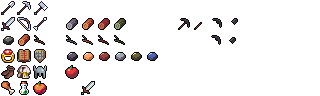
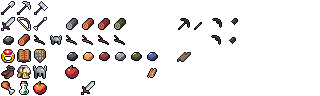
new itemSheet

Changed region(s): [[0.5312, 0.5312, 0.5938, 0.6562], [0.4375, 0.6875, 0.5, 0.8125], [0.1562, 0.375, 0.2188, 0.4688]]

diff --git a/Game/Item.cpp b/Game/Item.cpp
@@ -18,21 +18,104 @@ std::array<ItemPropertyTemplate*,(int)ItemProperty::MAX> Item::itemPropertyTempl
 void Item::setTemplates() {
     
     //ITEMS
-    itemTemplates[(int)ItemID::BRANCH] = new ItemTemplate("Oak Branch", {ItemType::ROD, ItemType::FUEL});
-    itemTemplates[(int)ItemID::BRANCH] -> properties[(int)ItemProperty::FLEXIBILITY] = 1;
-    itemTemplates[(int)ItemID::BRANCH] -> properties[(int)ItemProperty::STENGTH] = 7;
-    itemTemplates[(int)ItemID::BRANCH] -> properties[(int)ItemProperty::BURN_TIME] = 2;
-    itemTemplates[(int)ItemID::BRANCH] -> properties[(int)ItemProperty::HEAT] = 3;
     
-    itemTemplates[(int)ItemID::WOOD] = new ItemTemplate("Oak Log", {ItemType::LOG, ItemType::FUEL});
-    itemTemplates[(int)ItemID::WOOD] -> properties[(int)ItemProperty::BURN_TIME] = 2;
-    itemTemplates[(int)ItemID::WOOD] -> properties[(int)ItemProperty::HEAT] = 3;
-    itemTemplates[(int)ItemID::WOOD] -> properties[(int)ItemProperty::HARDNESS] = 6;
+    //logs
     
-    itemTemplates[(int)ItemID::STONE] = new ItemTemplate("Granite", {ItemType::STONE});
-    itemTemplates[(int)ItemID::STONE] -> properties[(int)ItemProperty::HARDNESS] = 6;
+    itemTemplates[(int)ItemID::PINE_LOG] = new ItemTemplate("Pine Log", {ItemType::LOG, ItemType::FUEL});
+    itemTemplates[(int)ItemID::PINE_LOG] -> properties[(int)ItemProperty::HARDNESS] = 3;
+    itemTemplates[(int)ItemID::PINE_LOG] -> properties[(int)ItemProperty::BURN_TIME] = 5;
+    itemTemplates[(int)ItemID::PINE_LOG] -> properties[(int)ItemProperty::HEAT] = 4;
+    
+    itemTemplates[(int)ItemID::OAK_LOG] = new ItemTemplate("Oak Log", {ItemType::LOG, ItemType::FUEL});
+    itemTemplates[(int)ItemID::OAK_LOG] -> properties[(int)ItemProperty::HARDNESS] = 6;
+    itemTemplates[(int)ItemID::OAK_LOG] -> properties[(int)ItemProperty::BURN_TIME] = 8;
+    itemTemplates[(int)ItemID::OAK_LOG] -> properties[(int)ItemProperty::HEAT] = 5;
+    
+    itemTemplates[(int)ItemID::ROSEWOOD_LOG] = new ItemTemplate("Rosewood Log", {ItemType::LOG, ItemType::FUEL});
+    itemTemplates[(int)ItemID::ROSEWOOD_LOG] -> properties[(int)ItemProperty::HARDNESS] = 9;
+    itemTemplates[(int)ItemID::ROSEWOOD_LOG] -> properties[(int)ItemProperty::BURN_TIME] = 8;
+    itemTemplates[(int)ItemID::ROSEWOOD_LOG] -> properties[(int)ItemProperty::HEAT] = 6;
+    
+    itemTemplates[(int)ItemID::ASHWOOD_LOG] = new ItemTemplate("Ashwood Log", {ItemType::LOG, ItemType::FUEL});
+    itemTemplates[(int)ItemID::ASHWOOD_LOG] -> properties[(int)ItemProperty::HARDNESS] = 7;
+    itemTemplates[(int)ItemID::ASHWOOD_LOG] -> properties[(int)ItemProperty::BURN_TIME] = 5;
+    itemTemplates[(int)ItemID::ASHWOOD_LOG] -> properties[(int)ItemProperty::HEAT] = 9;
+    
+    itemTemplates[(int)ItemID::SPRUCE_LOG] = new ItemTemplate("Spruce Log", {ItemType::LOG, ItemType::FUEL});
+    itemTemplates[(int)ItemID::SPRUCE_LOG] -> properties[(int)ItemProperty::HARDNESS] = 7;
+    itemTemplates[(int)ItemID::SPRUCE_LOG] -> properties[(int)ItemProperty::BURN_TIME] = 6;
+    itemTemplates[(int)ItemID::SPRUCE_LOG] -> properties[(int)ItemProperty::HEAT] = 5;
+    
+    //planks
+    
+    itemTemplates[(int)ItemID::PINE_PLANK] = new ItemTemplate("Pine Plank", {ItemType::PLATE});
+    
+    itemTemplates[(int)ItemID::OAK_PLANK] = new ItemTemplate("Oak Plank", {ItemType::PLATE});
+    
+    itemTemplates[(int)ItemID::ROSEWOOD_PLANK] = new ItemTemplate("Rosewood Plank", {ItemType::PLATE});
+    
+    itemTemplates[(int)ItemID::ASHWOOD_PLANK] = new ItemTemplate("Ashwood Plank", {ItemType::PLATE});
+    
+    itemTemplates[(int)ItemID::SPRUCE_PLANK] = new ItemTemplate("Spruce Plank", {ItemType::PLATE});
+
+    //sticks
+    
+    itemTemplates[(int)ItemID::PINE_STICK] = new ItemTemplate("Pine Stick", {ItemType::ROD});
+    itemTemplates[(int)ItemID::PINE_STICK] -> properties[(int)ItemProperty::FLEXIBILITY] = 8;
+    itemTemplates[(int)ItemID::PINE_STICK] -> properties[(int)ItemProperty::STENGTH] = 4;
+    
+    itemTemplates[(int)ItemID::OAK_STICK] = new ItemTemplate("Oak Stick", {ItemType::ROD});
+    itemTemplates[(int)ItemID::OAK_STICK] -> properties[(int)ItemProperty::FLEXIBILITY] = 5;
+    itemTemplates[(int)ItemID::OAK_STICK] -> properties[(int)ItemProperty::STENGTH] = 6;
+    
+    itemTemplates[(int)ItemID::ROSEWOOD_STICK] = new ItemTemplate("Rosewood Stick", {ItemType::ROD});
+    itemTemplates[(int)ItemID::ROSEWOOD_STICK] -> properties[(int)ItemProperty::FLEXIBILITY] = 2;
+    itemTemplates[(int)ItemID::ROSEWOOD_STICK] -> properties[(int)ItemProperty::STENGTH] = 9;
+    
+    itemTemplates[(int)ItemID::ASHWOOD_STICK] = new ItemTemplate("Ashwood Stick", {ItemType::ROD});
+    itemTemplates[(int)ItemID::ASHWOOD_STICK] -> properties[(int)ItemProperty::FLEXIBILITY] = 4;
+    itemTemplates[(int)ItemID::ASHWOOD_STICK] -> properties[(int)ItemProperty::STENGTH] = 7;
+    
+    itemTemplates[(int)ItemID::SPRUCE_STICK] = new ItemTemplate("Spruce Stick", {ItemType::ROD});
+    itemTemplates[(int)ItemID::SPRUCE_STICK] -> properties[(int)ItemProperty::FLEXIBILITY] = 5;
+    itemTemplates[(int)ItemID::SPRUCE_STICK] -> properties[(int)ItemProperty::STENGTH] = 7;
+    
+    //cobbles
+    
+    itemTemplates[(int)ItemID::GRANITE_COBBLE] = new ItemTemplate("Granite Cobble", {ItemType::COBBLE});
+    itemTemplates[(int)ItemID::GRANITE_COBBLE] -> properties[(int)ItemProperty::HARDNESS] = 7;
+    
+    itemTemplates[(int)ItemID::BASALT_COBBLE] = new ItemTemplate("Basalt Cobble", {ItemType::COBBLE});
+    itemTemplates[(int)ItemID::BASALT_COBBLE] -> properties[(int)ItemProperty::HARDNESS] = 9;
+    
+    itemTemplates[(int)ItemID::LIMESTONE_COBBLE] = new ItemTemplate("Limestone Cobble", {ItemType::COBBLE});
+    itemTemplates[(int)ItemID::LIMESTONE_COBBLE] -> properties[(int)ItemProperty::HARDNESS] = 6;
+    
+    itemTemplates[(int)ItemID::SANDSTONE_COBBLE] = new ItemTemplate("Sandstone Cobble", {ItemType::COBBLE});
+    itemTemplates[(int)ItemID::SANDSTONE_COBBLE] -> properties[(int)ItemProperty::HARDNESS] = 4;
+    
+    itemTemplates[(int)ItemID::CHALK_COBBLE] = new ItemTemplate("Chalk Cobble", {ItemType::COBBLE});
+    itemTemplates[(int)ItemID::CHALK_COBBLE] -> properties[(int)ItemProperty::HARDNESS] = 2;
+    
+    //pebbles
+    
+    itemTemplates[(int)ItemID::GRANITE_PEBBLE] = new ItemTemplate("Granite Cobble", {ItemType::PEBBLE});
+    itemTemplates[(int)ItemID::GRANITE_COBBLE] -> properties[(int)ItemProperty::HARDNESS] = 7;
+    
+    itemTemplates[(int)ItemID::BASALT_COBBLE] = new ItemTemplate("Basalt Cobble", {ItemType::PEBBLE});
+    itemTemplates[(int)ItemID::BASALT_COBBLE] -> properties[(int)ItemProperty::HARDNESS] = 9;
+    
+    itemTemplates[(int)ItemID::LIMESTONE_COBBLE] = new ItemTemplate("Limestone Cobble", {ItemType::PEBBLE});
+    itemTemplates[(int)ItemID::LIMESTONE_COBBLE] -> properties[(int)ItemProperty::HARDNESS] = 6;
+    
+    itemTemplates[(int)ItemID::SANDSTONE_COBBLE] = new ItemTemplate("Sandstone Cobble", {ItemType::PEBBLE});
+    itemTemplates[(int)ItemID::SANDSTONE_COBBLE] -> properties[(int)ItemProperty::HARDNESS] = 4;
+    
+    itemTemplates[(int)ItemID::CHALK_COBBLE] = new ItemTemplate("Chalk Cobble", {ItemType::PEBBLE});
+    itemTemplates[(int)ItemID::CHALK_COBBLE] -> properties[(int)ItemProperty::HARDNESS] = 2;
     
     //TYPES
+    
     itemTypeTemplates[(int)ItemType::SHOVEL] = new ItemTypeTemplate("Shovel", {ItemProperty::EFFICIENCY});
     itemTypeTemplates[(int)ItemType::HAMMER] = new ItemTypeTemplate("Hammer", {ItemProperty::EFFICIENCY});
     itemTypeTemplates[(int)ItemType::PICK_AXE] = new ItemTypeTemplate("Pick Axe", {ItemProperty::EFFICIENCY});
@@ -40,10 +123,12 @@ void Item::setTemplates() {
     itemTypeTemplates[(int)ItemType::ROD] = new ItemTypeTemplate("Rod", {ItemProperty::FLEXIBILITY, ItemProperty::STENGTH});
     itemTypeTemplates[(int)ItemType::FUEL] = new ItemTypeTemplate("Fuel", {ItemProperty::BURN_TIME, ItemProperty::HEAT});
     itemTypeTemplates[(int)ItemType::LOG] = new ItemTypeTemplate("Log", {ItemProperty::HARDNESS});
-    itemTypeTemplates[(int)ItemType::STONE] = new ItemTypeTemplate("Stone", {ItemProperty::HARDNESS});
+    itemTypeTemplates[(int)ItemType::PEBBLE] = new ItemTypeTemplate("Pebble", {ItemProperty::HARDNESS});
+    itemTypeTemplates[(int)ItemType::COBBLE] = new ItemTypeTemplate("Cobble", {ItemProperty::HARDNESS});
 
     
     //PROPERTIES
+    
     itemPropertyTemplates[(int)ItemProperty::EFFICIENCY] = new ItemPropertyTemplate("Efficiency");
     itemPropertyTemplates[(int)ItemProperty::DAMAGE] = new ItemPropertyTemplate("Damage");
     itemPropertyTemplates[(int)ItemProperty::PARRY] = new ItemPropertyTemplate("Parry");
@@ -55,9 +140,9 @@ void Item::setTemplates() {
 };
 
 void ItemStack::render(int x, int y, int scale, bool inv) {
-    int a = (int)itemID % 3;
-    int b = (int)itemID / 3;
-    TextureManager::drawTexture(TextureManager::getTexture("itemSheet.png"), a*BIT, b*BIT, BIT, BIT, x, y, scale, scale, true);
+    int a = (int)itemID % 6;
+    int b = (int)itemID / 6;
+    TextureManager::drawTexture(TextureManager::getTexture("itemSheet2.png"), a*BIT, b*BIT, BIT, BIT, x, y, scale, scale, true);
     if (count != 1 && inv) {
         std::string s = std::to_string(count);
         TextManager::drawText(s, {x+scale/4,y});
@@ -70,7 +155,7 @@ Tool::Tool(std::string name, ItemType t, pair<int> p) {
 }
 
 void Tool::render(int x, int y, int scale, bool inv) {
-    TextureManager::drawTexture(TextureManager::getTexture("itemSheet.png"), pos.X*BIT, pos.Y*BIT, BIT, BIT, x, y, scale, scale, true);
+    TextureManager::drawTexture(TextureManager::getTexture("itemSheet2.png"), pos.X*BIT, pos.Y*BIT, BIT, BIT, x, y, scale, scale, true);
 }
 
 void ItemContainer::renderToolTip(pair<int> pos) {

diff --git a/Game/ResoureTypes.cpp b/Game/ResoureTypes.cpp
@@ -11,12 +11,12 @@
 ResourceType* ResourceType::types[MAX_RESOURCE_TYPES];
 
 void ResourceType::setTypes() {
-    types[(int)RESOURCE::STONE] = new ResourceType({0,4},{1,1},0,ItemType::PICK_AXE,11,"assets/sound/stone.mp3");
-    types[(int)RESOURCE::STONE] -> loot.addLoot(ItemID::STONE,2,4);
+    types[(int)RESOURCE::STONE] = new ResourceType({0,4}, {1,1}, 0, ItemType::PICK_AXE, 11, "assets/sound/stone.mp3");
+    types[(int)RESOURCE::STONE] -> loot.addLoot(ItemID::GRANITE_COBBLE, 2, 4);
     
-    types[(int)RESOURCE::BUSH] = new ResourceType({3,1},{1,1},0,ItemType::SHOVEL,1,"assets/sound/bush.mp3");
-    types[(int)RESOURCE::BUSH] -> loot.addLoot(ItemID::APPLE,1,2);
+    types[(int)RESOURCE::BUSH] = new ResourceType({3,1}, {1,1}, 0, ItemType::SHOVEL, 1, "assets/sound/bush.mp3");
+    types[(int)RESOURCE::BUSH] -> loot.addLoot(ItemID::APPLE, 1, 2);
     
-    types[(int)RESOURCE::TREE] = new ResourceType({0,3},{1,2},1,ItemType::HAMMER,3,"assets/sound/tree.mp3");
-    types[(int)RESOURCE::TREE] -> loot.addLoot(ItemID::WOOD,3,5);
+    types[(int)RESOURCE::TREE] = new ResourceType({0,3}, {1,2}, 1, ItemType::AXE, 3, "assets/sound/tree.mp3");
+    types[(int)RESOURCE::TREE] -> loot.addLoot(ItemID::ROSEWOOD_LOG, 3, 5);
 }

diff --git a/Game/Item.h b/Game/Item.h
@@ -12,7 +12,8 @@ enum class ItemType {
     NONE = -1,
     
     //Raw Materials
-    STONE,
+    COBBLE,
+    PEBBLE,
     CLAY,
     LOG,
     ORE,
@@ -104,25 +105,57 @@ enum class ItemProperty {
 };
 
 enum class ItemID {
+    
     NONE = -1,
-    SHOVEL,
-    PICK,
-    HAMMER,
+    
     SWORD,
+    PICK_AXE,
+    AXE,
+    SHOVEL,
     BOW,
     ARROW,
-    STONE,
-    WOOD,
-    BRANCH,
-    RING,
-    BOOK,
-    SHIELD,
-    SHOES,
+    
+    BOOTS,
     ROBE,
-    HELMET,
-    MEAT,
+    CAP,
+    SHIELD,
     POTION,
     APPLE,
+    
+    PINE_LOG,
+    OAK_LOG,
+    ROSEWOOD_LOG,
+    ASHWOOD_LOG,
+    SPRUCE_LOG,
+    X_LOG,
+    
+    PINE_PLANK,
+    OAK_PLANK,
+    ROSEWOOD_PLANK,
+    ASHWOOD_PLANK,
+    SPRUCE_PLANK,
+    X_PLANK,
+    
+    PINE_STICK,
+    OAK_STICK,
+    ROSEWOOD_STICK,
+    ASHWOOD_STICK,
+    SPRUCE_STICK,
+    X_STICK,
+    
+    GRANITE_COBBLE,
+    BASALT_COBBLE,
+    LIMESTONE_COBBLE,
+    SANDSTONE_COBBLE,
+    CHALK_COBBLE,
+    Y_COBBLE,
+    
+    GRANITE_PEBBLE,
+    BASALT_PEBBLE,
+    LIMESTONE_PEBBLE,
+    SANDSTONE_PEBBLE,
+    CHALK_PEBBLE,
+    Y_PEBBLE,
     
     MAX
 };

diff --git a/Game/Game.cpp b/Game/Game.cpp
@@ -45,11 +45,11 @@ void Game::createWorld() {
     player -> addComponent<HealthComponent>(10);
     
     InventoryComponent* inv = player -> addComponent<InventoryComponent>(7,4);
-    inv -> addItem(new Tool("Sword", ItemType::SWORD, {0,1}));
+    inv -> addItem(new Tool("Sword", ItemType::SWORD, {0,0}));
     inv -> addItem(new Tool("Pick Axe", ItemType::PICK_AXE, {1,0}));
-    inv -> addItem(new Tool("Hammer", ItemType::HAMMER, {2,0}));
-    inv -> addItem(new Tool("Shovel" ,ItemType::SHOVEL, {0,0}));
-    inv -> addItem(new ItemStack(ItemID::BRANCH, 15));
+    inv -> addItem(new Tool("Hammer", ItemType::AXE, {2,0}));
+    inv -> addItem(new Tool("Shovel" ,ItemType::SHOVEL, {3,0}));
+    inv -> addItem(new ItemStack(ItemID::ASHWOOD_PLANK, 15));
     
     
     player -> addComponent<CollisionComponent>(0.375,0.25,0.375,0.25);

diff --git a/Game/ECS/PickupComponent.h b/Game/ECS/PickupComponent.h
@@ -28,8 +28,8 @@ public:
             const InteractionMessage &msg = static_cast<const InteractionMessage&>(message);
             if (msg.attack) return false;
             ItemStack* stack;
-            if (type == 0) stack = new ItemStack(ItemID::BRANCH);
-            else if (type == 1) stack = new ItemStack(ItemID::STONE);
+            if (type == 0) stack = new ItemStack(ItemID::OAK_STICK);
+            else if (type == 1) stack = new ItemStack(ItemID::GRANITE_PEBBLE);
             else return false;
             MessageManager::notify(GiveMessage(stack));
             entity -> destroy();

diff --git a/Game/ECS/PlayerInputComponent.h b/Game/ECS/PlayerInputComponent.h
@@ -34,7 +34,6 @@ public:
     }
     
     void update() override {
-        
         if (!keystate) { return; }
         
         walking = false;
